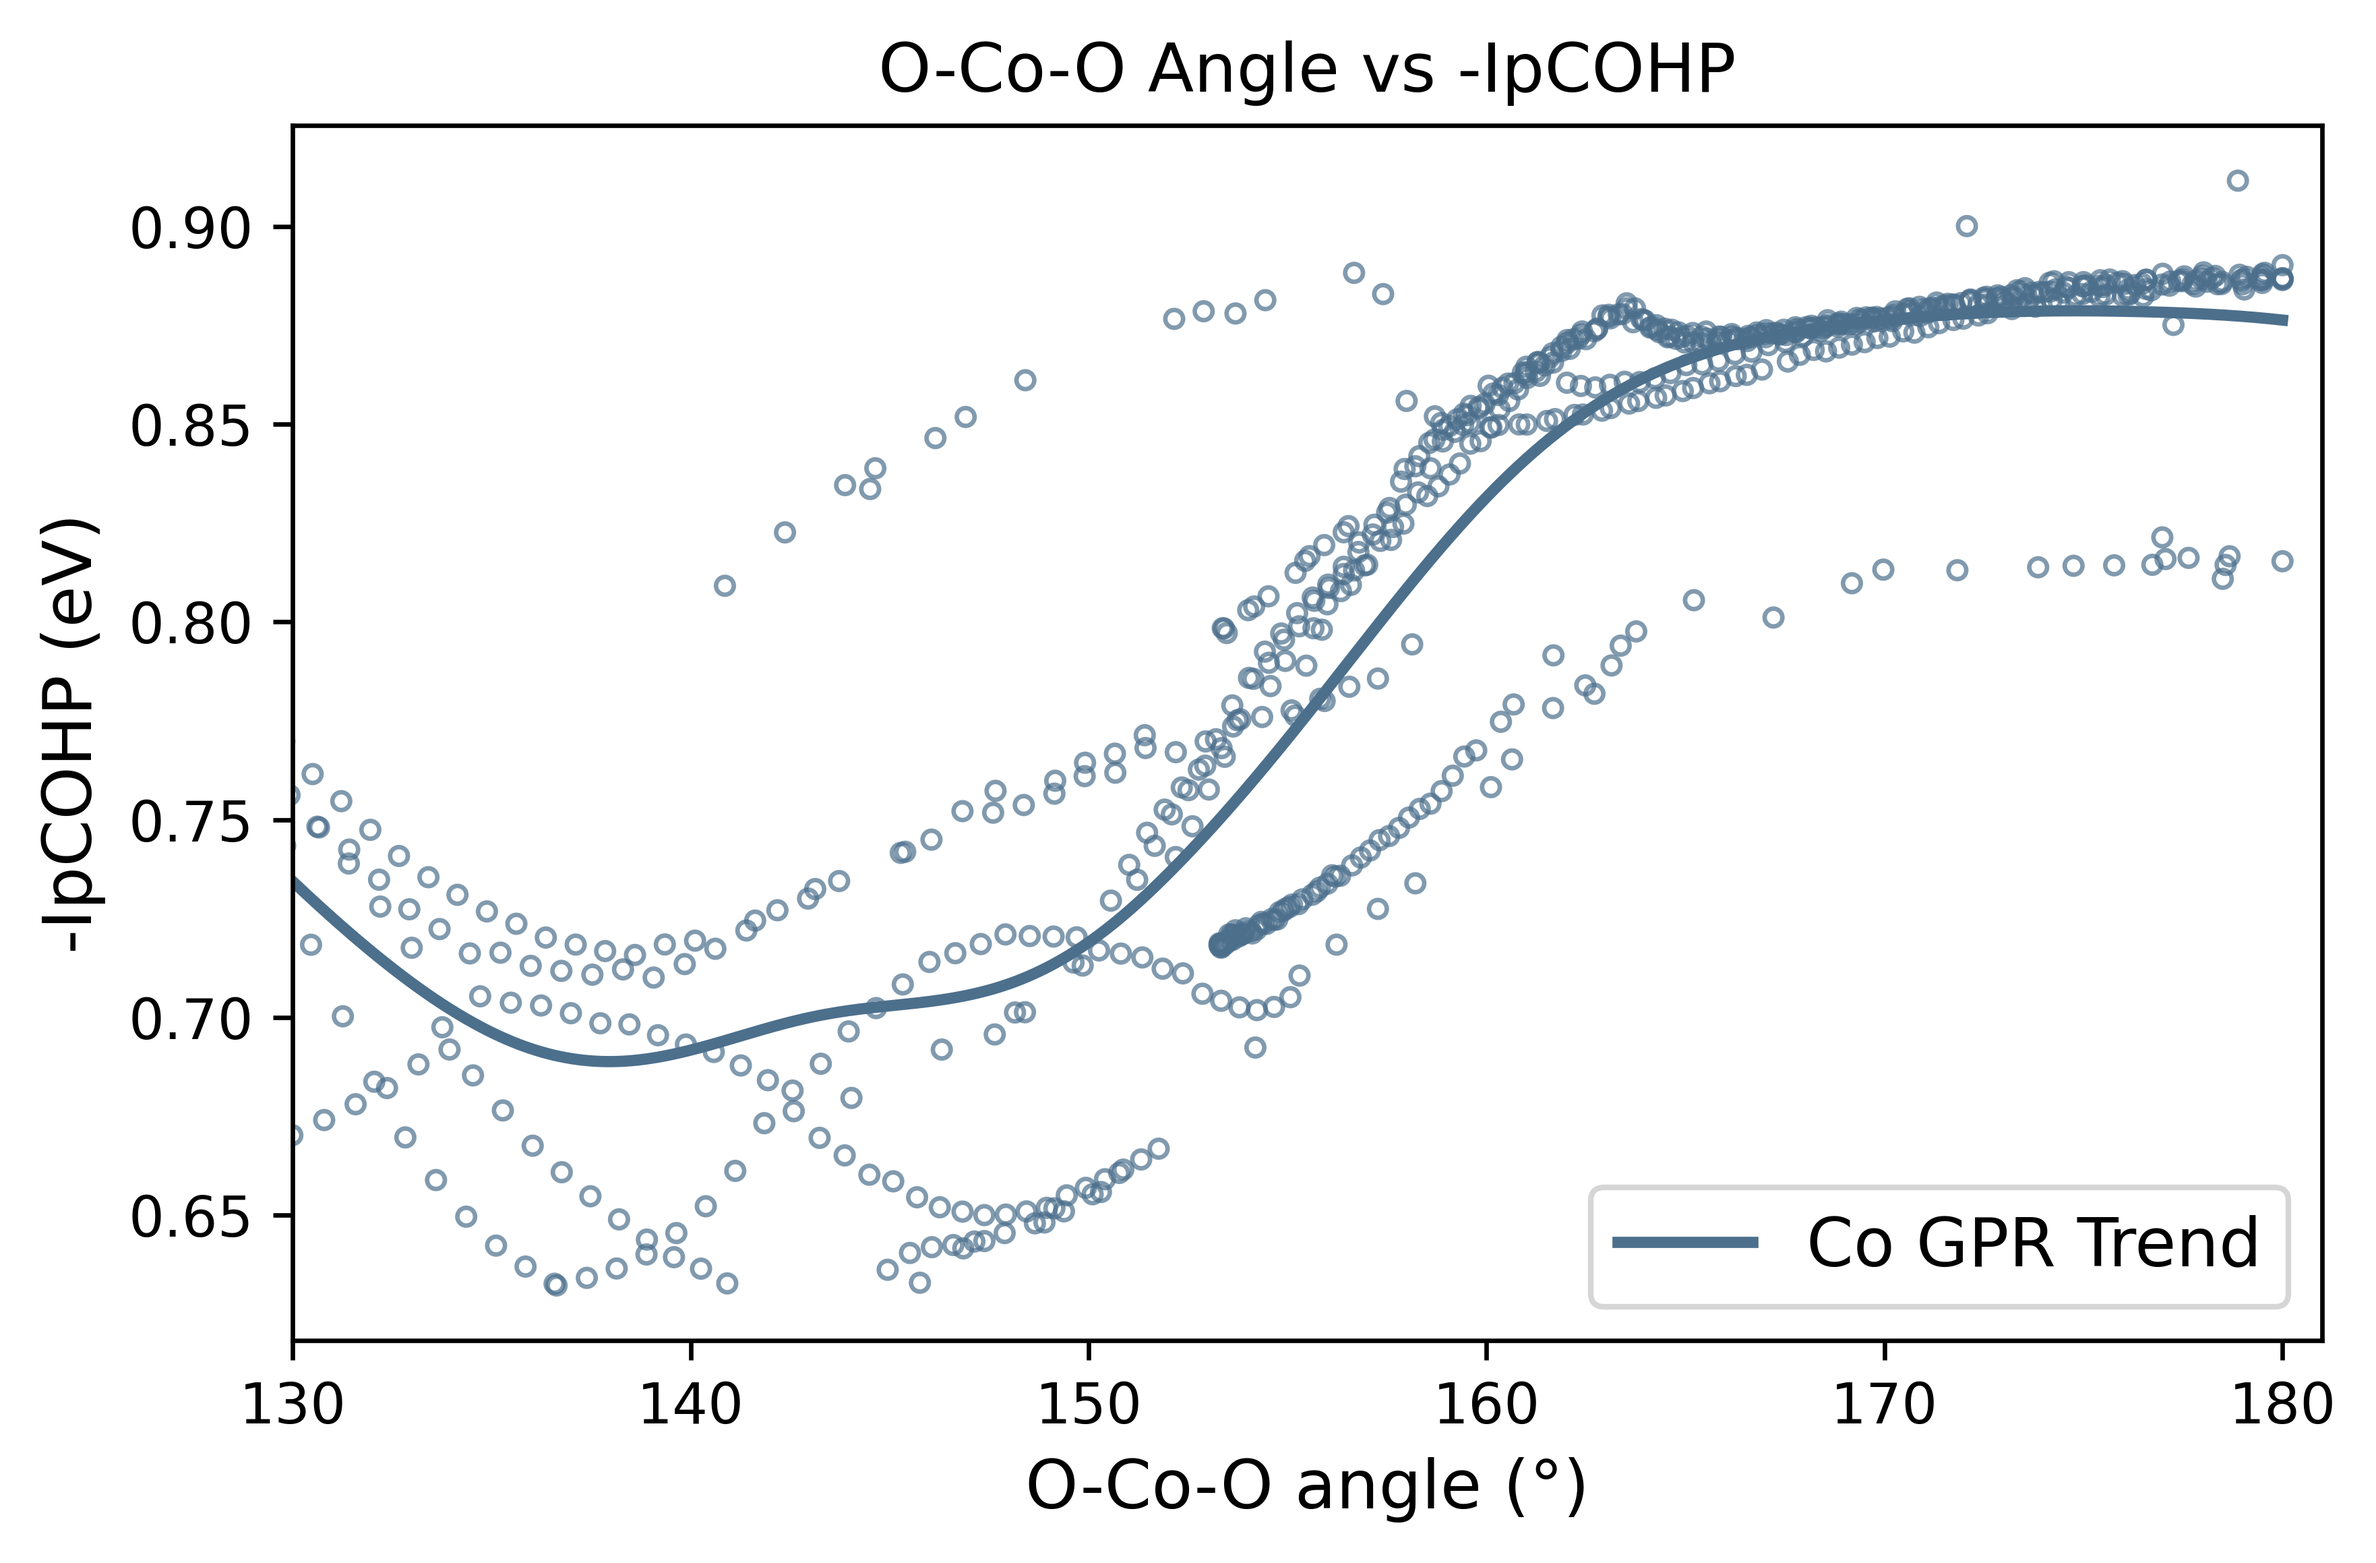
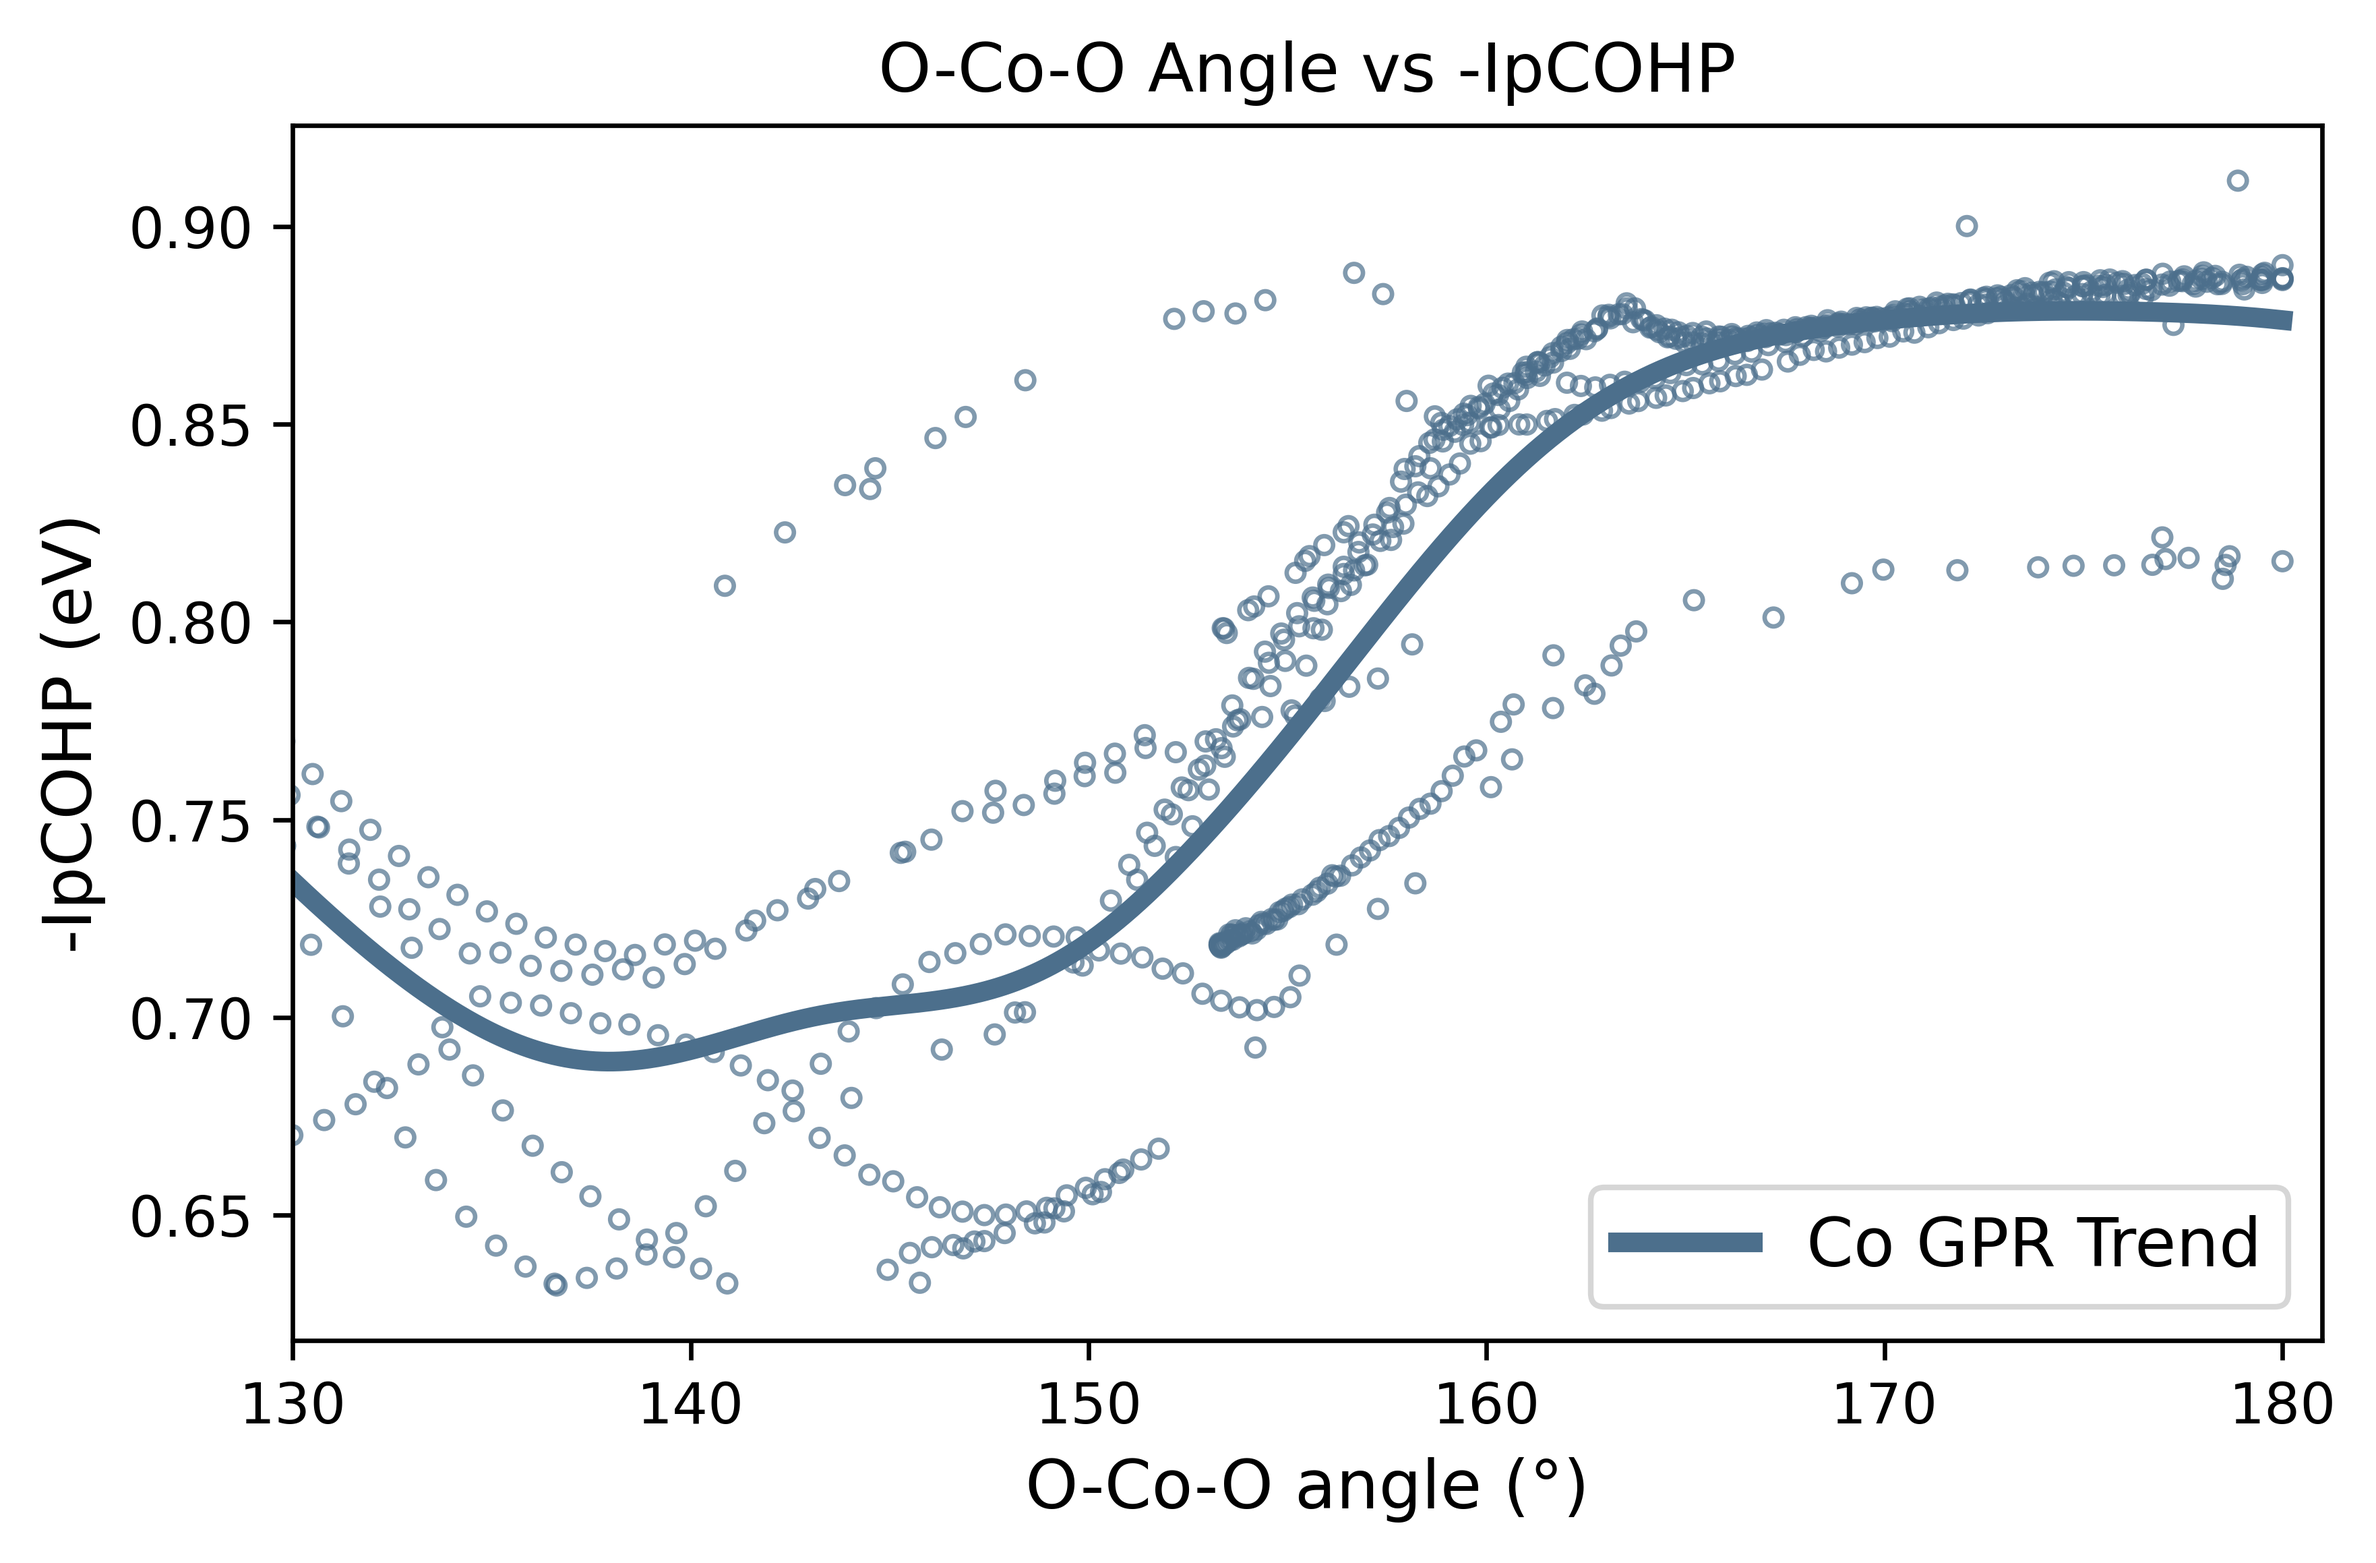
2

diff --git a/octachedral_gaussian/datafit_test/plot_all_trends.py b/octachedral_gaussian/datafit_test/plot_all_trends.py
@@ -194,7 +194,7 @@ def main():
     ax.set_xlabel("O-M-O Angle (deg)", fontsize=15)
     ax.set_ylabel("-ICOHP (eV)", fontsize=15)
     ax.set_xlim(130, 180.6)
-    ax.set_ylim(0.4, 1.9)
+    ax.set_ylim(0, 2.0)
     ax.legend(fontsize=12, loc="best", frameon=True, shadow=True)
     ax.tick_params(axis="both", which="major", labelsize=13)
     fig.tight_layout(pad=1.5)
@@ -207,7 +207,7 @@ def main():
     ax_lines.set_xlabel("O-M-O Angle (deg)", fontsize=15)
     ax_lines.set_ylabel("-ICOHP (eV)", fontsize=15)
     ax_lines.set_xlim(130, 180.6)
-    ax_lines.set_ylim(0.4, 1.9)
+    ax_lines.set_ylim(0, 2.0)
     ax_lines.legend(fontsize=12, loc="best", frameon=True, shadow=True)
     ax_lines.tick_params(axis="both", which="major", labelsize=15)
     fig_lines.tight_layout(pad=1.5)

diff --git a/octachedral_gaussian/datafit_test/Co/gpr_config.py b/octachedral_gaussian/datafit_test/Co/gpr_config.py
@@ -67,7 +67,7 @@ FIG_SIZE = (6, 4)
 FONT_SIZE_TITLE = 12
 FONT_SIZE_LABEL = 12
 FONT_SIZE_LEGEND = 12
-LINE_WIDTH_TREND = 2
+LINE_WIDTH_TREND = 3.5
 # GPR trend/filtered scatter styling
 SCATTER_MARKER = 'o'
 # use a smaller hollow-circle marker
@@ -75,7 +75,7 @@ SCATTER_SIZE = 10
 SCATTER_EDGE_COLOR = '#4c6f8c'   # palette blue
 SCATTER_FACE_COLOR = 'none'
 SCATTER_ALPHA = 0.7
-SCATTER_LINEWIDTH = 1.5
+SCATTER_LINEWIDTH = 0.8
 # align trend line with the same palette hue
 TREND_COLOR = '#4c6f8c'
 # Custom text for titles and legend

diff --git a/octachedral_gaussian/datafit_test/Fe/gpr_config.py b/octachedral_gaussian/datafit_test/Fe/gpr_config.py
@@ -67,7 +67,7 @@ FIG_SIZE = (6, 4)
 FONT_SIZE_TITLE = 12
 FONT_SIZE_LABEL = 12
 FONT_SIZE_LEGEND = 12
-LINE_WIDTH_TREND = 2
+LINE_WIDTH_TREND = 3.5
 # GPR trend/filtered scatter styling
 SCATTER_MARKER = 'o'
 # use a smaller hollow-circle marker

diff --git a/octachedral_gaussian/datafit_test/Ir/gpr_config.py b/octachedral_gaussian/datafit_test/Ir/gpr_config.py
@@ -67,7 +67,7 @@ FIG_SIZE = (6, 4)
 FONT_SIZE_TITLE = 12
 FONT_SIZE_LABEL = 12
 FONT_SIZE_LEGEND = 12
-LINE_WIDTH_TREND = 2
+LINE_WIDTH_TREND = 3.5
 # GPR trend/filtered scatter styling
 SCATTER_MARKER = 'o'
 # use a smaller hollow-circle marker

diff --git a/octachedral_gaussian/datafit_test/Mn/gpr_config.py b/octachedral_gaussian/datafit_test/Mn/gpr_config.py
@@ -67,7 +67,7 @@ FIG_SIZE = (6, 4)
 FONT_SIZE_TITLE = 12
 FONT_SIZE_LABEL = 12
 FONT_SIZE_LEGEND = 12
-LINE_WIDTH_TREND = 2
+LINE_WIDTH_TREND = 3.5
 # GPR trend/filtered scatter styling
 SCATTER_MARKER = 'o'
 # use a smaller hollow-Mncle marker

diff --git a/octachedral_gaussian/datafit_test/Ni/gpr_config.py b/octachedral_gaussian/datafit_test/Ni/gpr_config.py
@@ -67,7 +67,7 @@ FIG_SIZE = (6, 4)
 FONT_SIZE_TITLE = 12
 FONT_SIZE_LABEL = 12
 FONT_SIZE_LEGEND = 12
-LINE_WIDTH_TREND = 2
+LINE_WIDTH_TREND = 3.5
 # GPR trend/filtered scatter styling
 SCATTER_MARKER = 'o'
 # use a smaller hollow-Nicle marker

diff --git a/octachedral_gaussian/datafit_test/Ru/gpr_config.py b/octachedral_gaussian/datafit_test/Ru/gpr_config.py
@@ -67,7 +67,7 @@ FIG_SIZE = (6, 4)
 FONT_SIZE_TITLE = 12
 FONT_SIZE_LABEL = 12
 FONT_SIZE_LEGEND = 12
-LINE_WIDTH_TREND = 2
+LINE_WIDTH_TREND = 3.5
 # GPR trend/filtered scatter styling
 SCATTER_MARKER = 'o'
 # use a smaller hollow-Rucle marker

diff --git a/octachedral_gaussian/datafit_test/Ti/gpr_config.py b/octachedral_gaussian/datafit_test/Ti/gpr_config.py
@@ -67,7 +67,7 @@ FIG_SIZE = (6, 4)
 FONT_SIZE_TITLE = 12
 FONT_SIZE_LABEL = 12
 FONT_SIZE_LEGEND = 12
-LINE_WIDTH_TREND = 2
+LINE_WIDTH_TREND = 3.5
 # GPR trend/filtered scatter styling
 SCATTER_MARKER = 'o'
 # use a smaller hollow-Ticle marker
